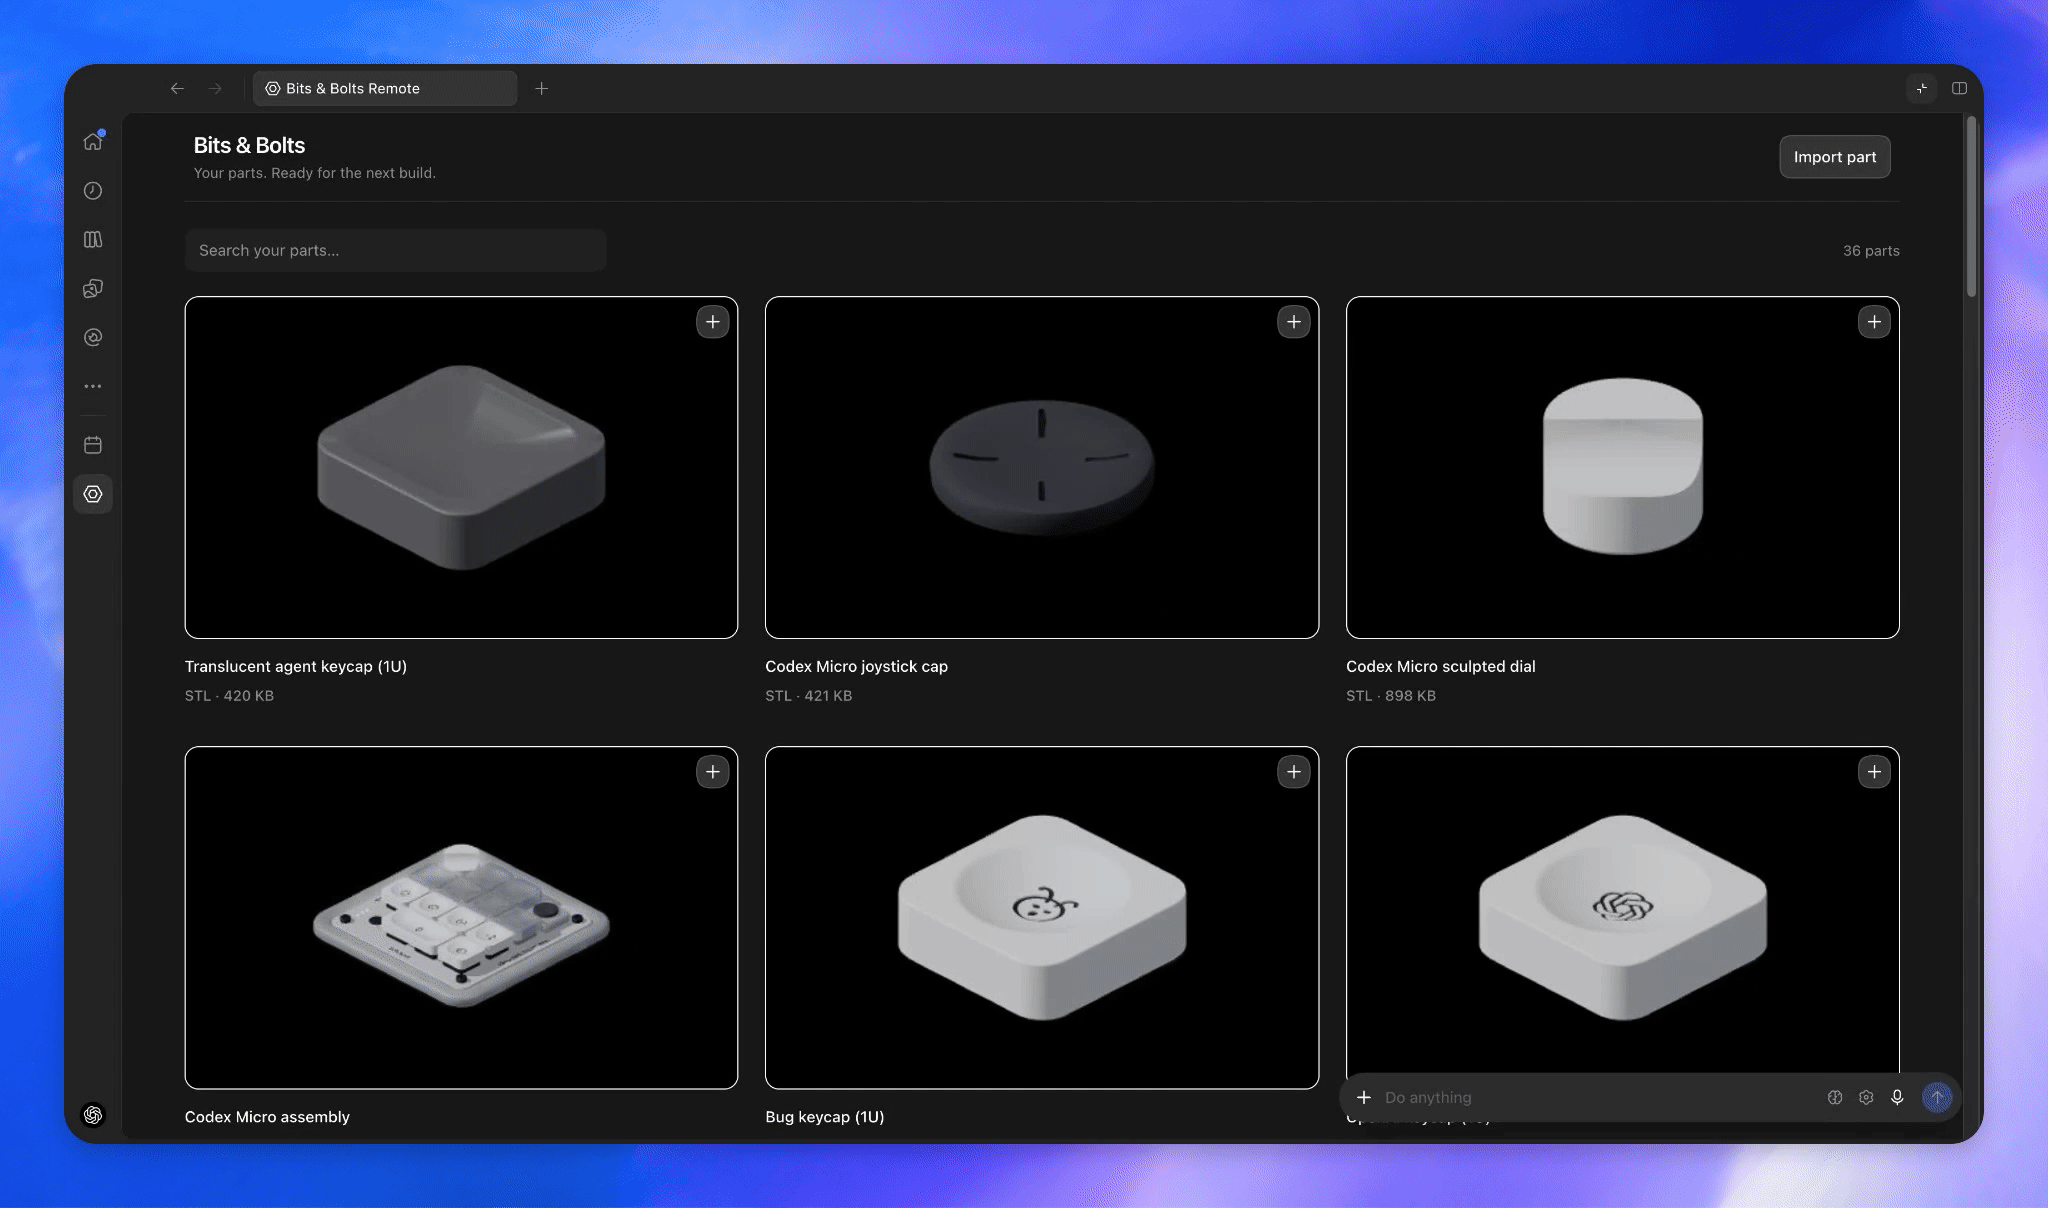
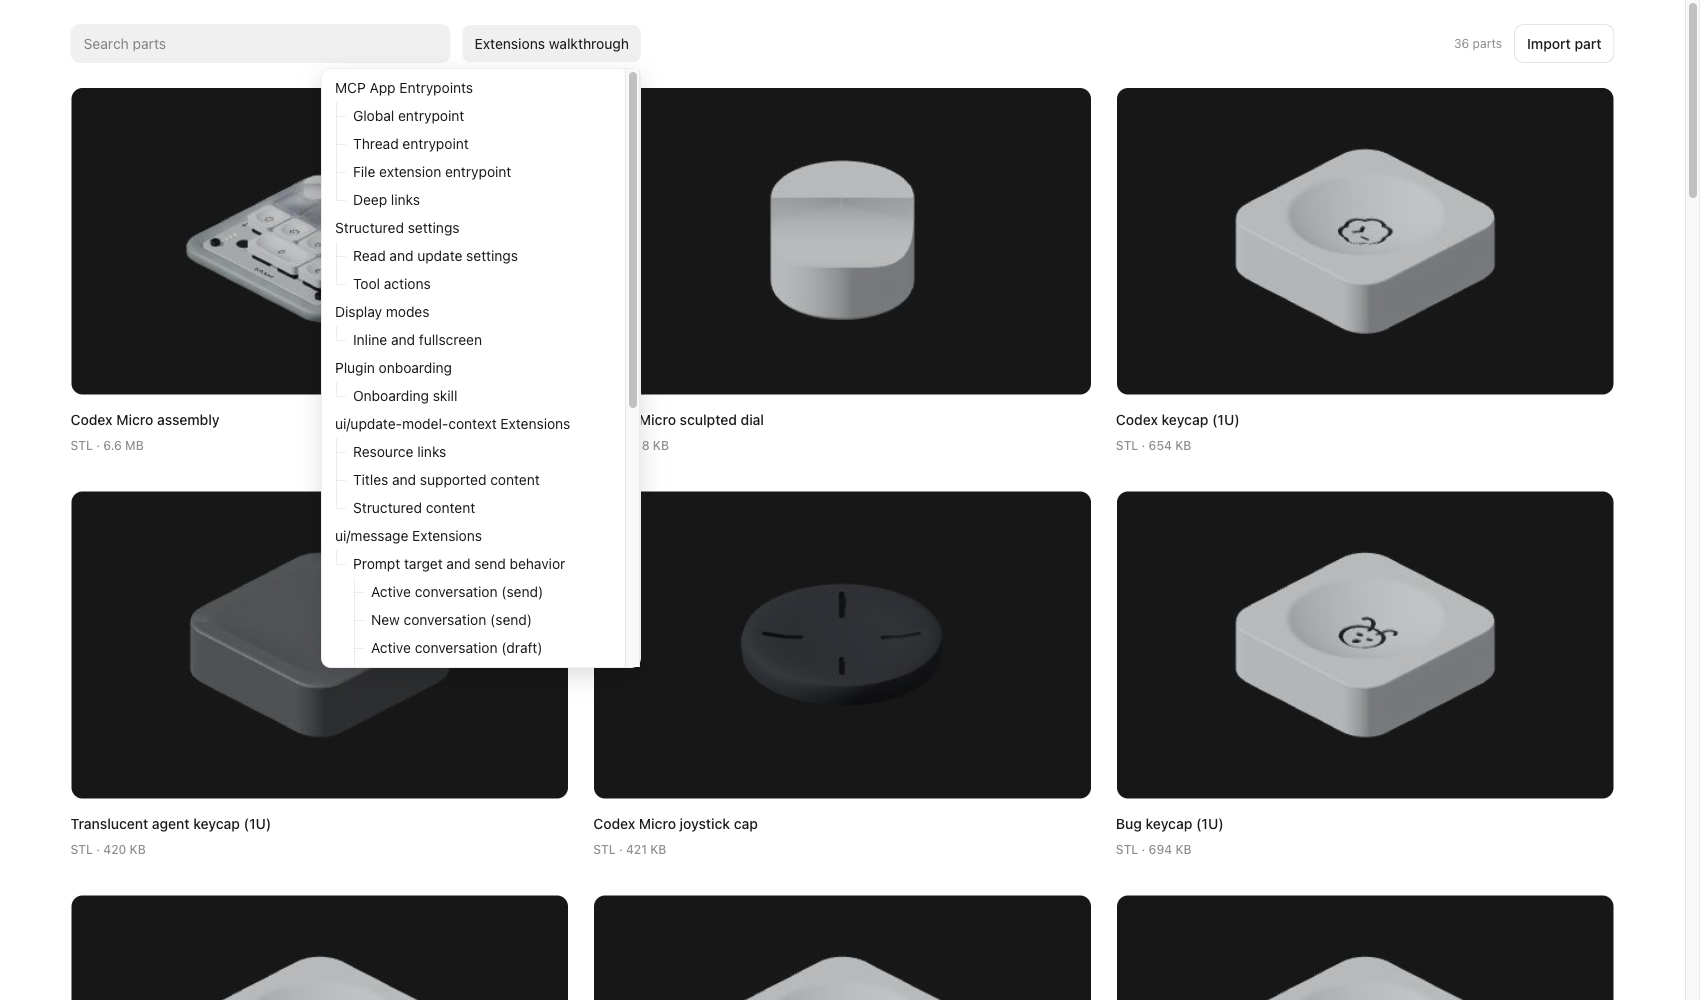
refactor: Simplify SDK helpers and setup guidance (#49)
* refactor: Pass MCP servers directly to legacy form helpers

* docs: Separate spec and SDK changelog entries

* docs: Keep top-level changes in the project changelog

* docs: Clarify API changelog and example source links

* docs: Refresh setup and walkthrough guidance

* docs: Clarify 0.2 API changes

* docs: Summarize release and label API changes

* docs: Use past tense in release notes

* Remove deprecated app transport helper

diff --git a/plugins/bits-and-bolts/src/server/forms.ts b/plugins/bits-and-bolts/src/server/forms.ts
@@ -5,10 +5,8 @@ import {
   requestFormInput,
   type OpenAIFormRequestParams,
 } from "@openai/mcp-extensions/server";
-import type { ServerContext } from "@modelcontextprotocol/server";
+import type { McpServer, ServerContext } from "@modelcontextprotocol/server";
 import { z } from "zod";
-
-export type RequestClient = Parameters<typeof createElicitInput>[0]["server"];
 
 const RequestEnvelopeSchema = z.object({
   "io.modelcontextprotocol/protocolVersion": z.string().optional(),
@@ -16,23 +14,23 @@ const RequestEnvelopeSchema = z.object({
 
 /** Keep compatibility with older dev-app image dialogs at the demo boundary. */
 export async function elicitCadForm(
-  client: RequestClient,
+  server: McpServer,
   context: ServerContext,
   params: OpenAIFormRequestParams,
 ) {
   const envelope = RequestEnvelopeSchema.parse(context.mcpReq.envelope ?? {});
   const protocolVersion =
     envelope["io.modelcontextprotocol/protocolVersion"] ??
-    client.getNegotiatedProtocolVersion();
+    server.server.getNegotiatedProtocolVersion();
   if (protocolVersion !== undefined && protocolVersion >= "2026-07-28") {
     return requestFormInput(context, { ...params, key: "form" });
   }
-  const capabilities = client.getClientCapabilities();
+  const capabilities = server.server.getClientCapabilities();
   if (
     capabilities?.extensions?.["openai/elicitation"] != null ||
     capabilities?.extensions?.["openai/form"] == null
   )
-    return createElicitInput({ server: client })(context, params, {
+    return createElicitInput(server)(context, params, {
       timeout: 300000,
     });
   const properties: Record<string, unknown> = {};

diff --git a/typescript/src/server/forms/elicitation.ts b/typescript/src/server/forms/elicitation.ts
@@ -39,12 +39,7 @@ const OpenAIFormClientCapabilitiesSchema = z.object({
   }),
 });
 
-export function createElicitInput(server: {
-  server: Pick<
-    McpServer["server"],
-    "getClientCapabilities" | "getNegotiatedProtocolVersion"
-  >;
-}): OpenAIElicitInput {
+export function createElicitInput(server: McpServer): OpenAIElicitInput {
   return async (context, params, options): Promise<OpenAIFormResult> => {
     const envelope = RequestEnvelopeSchema.parse(context.mcpReq.envelope ?? {});
     const protocolVersion =

diff --git a/plugins/bits-and-bolts/src/server/index.ts b/plugins/bits-and-bolts/src/server/index.ts
@@ -57,7 +57,7 @@ serveStdio(async () => {
         await readFile(new URL("./occt-import-js.wasm", import.meta.url))
       ).toString("base64"),
     },
-    elicit: (context, params) => elicitCadForm(server.server, context, params),
+    elicit: (context, params) => elicitCadForm(server, context, params),
   });
   return server;
 });

diff --git a/CHANGELOG.md b/CHANGELOG.md
@@ -2,17 +2,19 @@
 
 ## 0.2.0 — Unreleased
 
-### Spec API changes
+This release added editable chat drafts and forms that can continue across multiple exchanges. It also updated mention search and settings, migrated TypeScript server helpers to MCP SDK 2, and clarified SDK imports and replacements for older APIs.
 
-- `ui/message`: allow `_meta["openai/message"].send: false` for editable drafts in the active or a new conversation.
-- Mention search: add the server capability `openai/mentions: { searchTool: string }`. Require the referenced tool's `annotations.readOnlyHint: true`. Deprecate `_meta["openai/extensions"]["mentions/search"]: {}` as a fallback when the capability is absent.
-- Multi-round-trip forms: require `elicitation.form` and `extensions["openai/elicitation"].form`. Put the extended schema in `_meta["openai/elicitation"].requestedSchema`, with `{ "type": "object", "properties": {} }` in the core `requestedSchema`. Add TypeScript's `requestFormInput` and Python's `request_form_input`, also exposed as `OpenAIExtensions.request_input`.
-- Settings `kind: "tool"` layout items: make `title` optional, deprecated and ignored. Set the display title on the referenced tool.
+### Spec changes
 
-### SDK-only API changes
+- **Editable chat drafts:** Added `_meta["openai/message"].send: false` support to `ui/message` for appending content to the active draft or opening an editable draft with `target: "new"` on desktop and the Work browser.
+- **Mention search:** Added the server capability `openai/mentions: { searchTool: string }`. The search tool must set `annotations.readOnlyHint: true`. Deprecated `_meta["openai/extensions"]["mentions/search"]: {}`, which remains supported when the capability is absent.
+- **Multi-round-trip forms:** Added forms requiring both client capabilities, `elicitation.form` and `extensions["openai/elicitation"].form`. The form schema goes in `_meta["openai/elicitation"].requestedSchema`, with `{ "type": "object", "properties": {} }` in the core `requestedSchema`. Added TypeScript's `requestFormInput` and Python's `request_form_input`, also available as `OpenAIExtensions.request_input`.
+- **Settings buttons:** Made `title` optional, deprecated and ignored on `openai/settings` layout items with `kind: "tool"`. Set `title` on the referenced tool.
 
-- TypeScript server helpers: accept `McpServer` from `@modelcontextprotocol/server`. Settings and mention handlers receive `ServerContext` instead of SDK 1's `RequestHandlerExtra`. Legacy form helpers now take `(context, params, options?)`.
-- Export shared TypeScript schemas and types from `@openai/mcp-extensions`. Keep the existing `@openai/mcp-extensions/server` exports.
-- Add TypeScript's `OpenAIExtensions.elicitInputLegacy` and Python's `OpenAIExtensions.elicit_input_legacy`. Deprecate `elicitInput` and `elicit_input` as aliases.
-- Deprecate `createAppTransport`. Use `App` from `@modelcontextprotocol/ext-apps` with `OpenAIExtensions`.
-- Remove `type: "settings"` from both SDKs' entrypoint unions and remove Python's `OpenAISettingsEntrypoint`. Use `openai/settings` for structured settings.
+### SDK changes
+
+- **Server SDK:** Migrated TypeScript server helpers to MCP SDK 2. Import `McpServer` from `@modelcontextprotocol/server`. Changed settings and mention handlers to receive `ServerContext` instead of `RequestHandlerExtra`.
+- **Shared imports:** Exported shared TypeScript schemas and types from `@openai/mcp-extensions`. Existing `@openai/mcp-extensions/server` imports remain supported.
+- **Legacy forms:** Added TypeScript's `OpenAIExtensions.elicitInputLegacy` and Python's `OpenAIExtensions.elicit_input_legacy`. Deprecated `elicitInput` and `elicit_input`, which remain supported as aliases. Changed both TypeScript methods to take `(context, params, options?)`.
+- **App transport:** Removed `createAppTransport` and the `@openai/mcp-extensions/app/transport` import. Use `App` from `@modelcontextprotocol/ext-apps` with `OpenAIExtensions`.
+- **Structured settings:** Removed settings entrypoints (`type: "settings"`) from both SDKs and removed Python's `OpenAISettingsEntrypoint`. Declare structured settings with `openai/settings`.

diff --git a/README.md b/README.md
@@ -8,7 +8,7 @@ OpenAI MCP Extensions adds ChatGPT-specific capabilities to MCP so developers ca
 2. Select the **Bits & Bolts** icon in the sidebar to open the **Parts Library**.
 3. Open **Extensions walkthrough** to explore a demo of each major extension.
 
-   ![Bits & Bolts Remote selected in the sidebar with the Parts Library open](resources/01-global-library.png)
+   ![Bits & Bolts Parts Library with the Extensions walkthrough tree expanded](resources/01-global-library.png)
 
 ## Showcase
 
@@ -38,21 +38,21 @@ Let users select a CAD part using thumbnail choices.
 
 ## Get started
 
-### 1. Install the SDK
+### 1. Integrate extensions
+
+Ask `@Plugin Creator` in Codex to build a new plugin or improve an existing one for you.
+
+### 2. Install the SDK
 
 - [TypeScript](typescript/README.md#installation): `@openai/mcp-extensions` for MCP servers and Apps.
 - [Python](python/README.md#installation): `openai-mcp-extensions` for MCP servers.
 
-### 2. Integrate extensions
-
-Ask [Plugin Creator](https://chatgpt.com/plugins/plugin_connector_1p_e1a10c53223481918a42f1510ec46c1e) how extensions can jumpstart a new plugin or improve an existing one.
-
-### 3. Explore supported extensions
+### 3. Learn more
 
 - [docs/spec.md](docs/spec.md) lists all supported extensions.
 - [docs/patterns.md](docs/patterns.md) covers best practices.
-- [CHANGELOG.md](CHANGELOG.md) lists spec and SDK API changes.
-- [Bits & Bolts](plugins/bits-and-bolts/) shows how to integrate extensions in practice.
+- [CHANGELOG.md](CHANGELOG.md) lists API changes.
+- [Bits & Bolts source](plugins/bits-and-bolts/) shows how to integrate extensions in practice.
 
 ### 4. Provide feedback
 

diff --git a/typescript/README.md b/typescript/README.md
@@ -18,12 +18,6 @@ For MCP Apps, install the app integration instead:
 pnpm add @openai/mcp-extensions @modelcontextprotocol/ext-apps@^1.7.5 @modelcontextprotocol/sdk@^1
 ```
 
-### Migrating to 0.2
-
-Server helpers use MCP SDK 2. Import `McpServer` from `@modelcontextprotocol/server` and use `ServerContext` in settings and mention handlers. Read request metadata from `context.mcpReq._meta` and HTTP authentication from `context.http?.authInfo`.
-
-Pass the current handler context to `elicitInputLegacy(context, params, options)`. The deprecated `elicitInput` alias takes the same arguments. One SDK 2 server can serve older connections with legacy forms and newer connections with multi-round-trip forms. MCP Apps still use the SDK 1 dependency required by `@modelcontextprotocol/ext-apps`.
-
 ## MCP Server Setup
 
 Enable OpenAI extensions for an MCP Server created with the MCP TypeScript SDK.

diff --git a/plugins/bits-and-bolts/README.md b/plugins/bits-and-bolts/README.md
@@ -1,5 +1,3 @@
 # Bits & Bolts
 
-Bits & Bolts showcases the major MCP extensions. Open its sidebar entry, then choose **Extensions walkthrough** to explore each demo.
-
-Remote demo libraries are shared. Imported files are visible to everyone who chooses the same account. Use sample files only.
+Bits & Bolts is a kitchen sink showcasing the major MCP extensions. Open its sidebar entry, then choose **Extensions walkthrough** to explore each demo.
